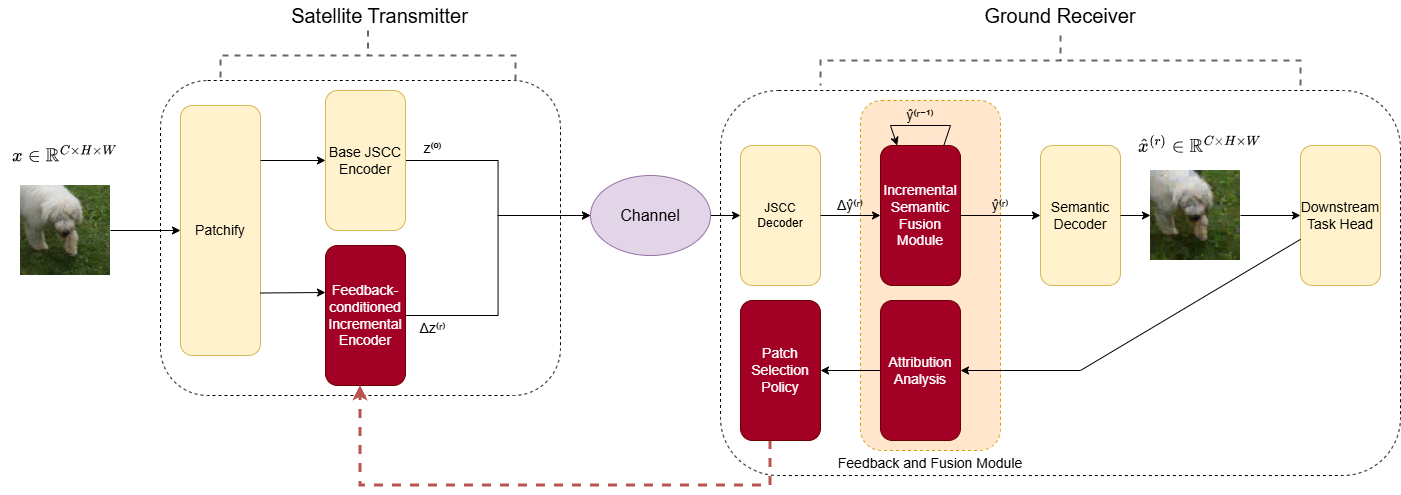
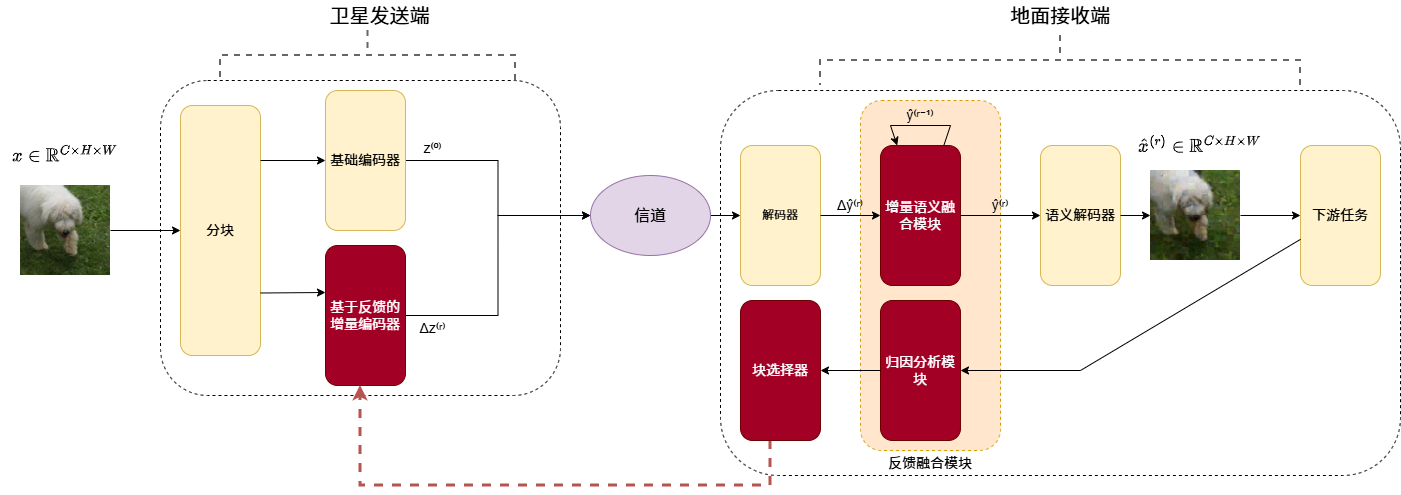
chapter6

diff --git a/contents/main_chapter6.tex b/contents/main_chapter6.tex
@@ -141,7 +141,7 @@ B_{\mathrm{fb}}^{(r)}=rN\quad\text{bit}.
 
 \begin{figure}[!htp]
     \centering
-    \includegraphics[width=\linewidth]{figures/chapter6/figs/system_model.pdf}
+    \includegraphics[width=\linewidth]{figures/chapter6/figs/system_model.png}
     \bicaption{接收端驱动的 CIS-R 语义重传框架}{Receiver-driven semantic retransmission framework of CIS-R}
     \label{fig:ch6_system_model}
 \end{figure}
